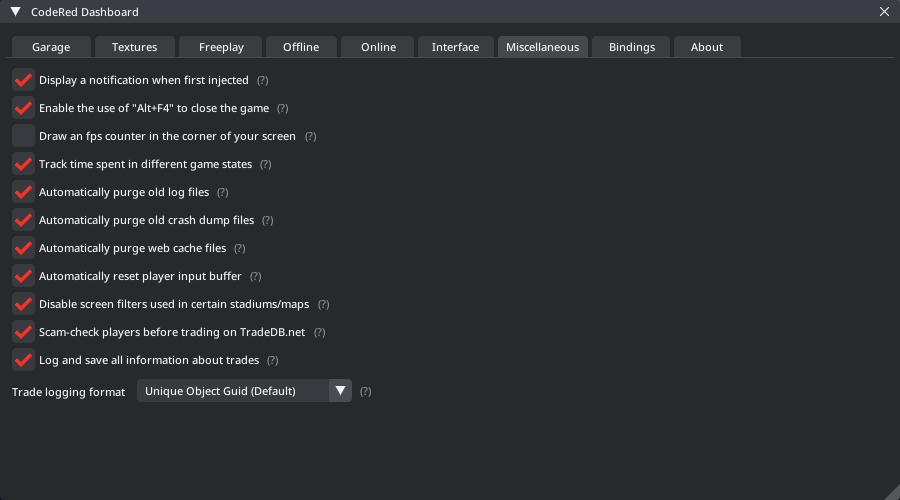
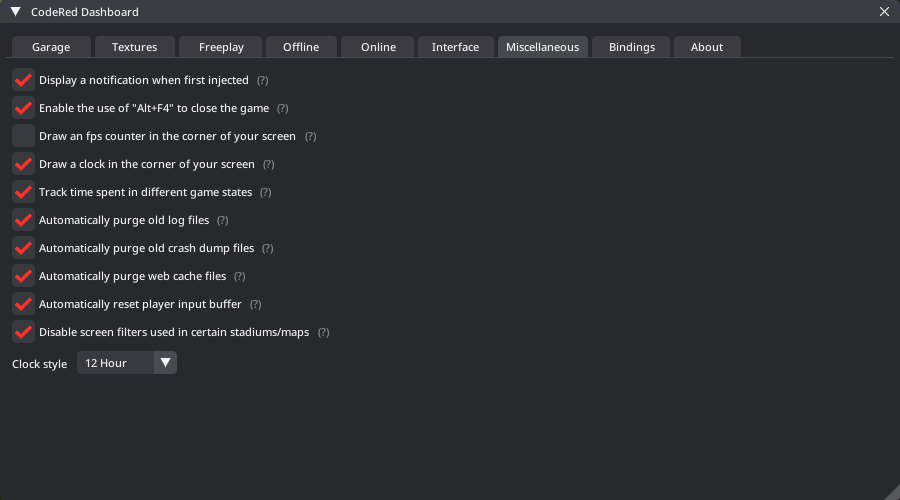
Added the new clock window and more
Added the new clock window, updated the misc image, and updated the changelog to the latest version.

diff --git a/documentation.html b/documentation.html
@@ -87,8 +87,9 @@
                     <li class="nav-item"><a class="nav-link scrollto" href="#item-5-8">Style Editor</a></li>
                     <li class="nav-item"><a class="nav-link scrollto" href="#item-5-9">Terminal</a></li>
                     <li class="nav-item"><a class="nav-link scrollto" href="#item-5-10">Playlist Tracker</a></li>
-                    <li class="nav-item"><a class="nav-link scrollto" href="#item-5-10-5">Texture Browser</a></li>
-                    <li class="nav-item"><a class="nav-link scrollto" href="#item-5-11">Thumbnail Renderer</a></li>
+                    <li class="nav-item"><a class="nav-link scrollto" href="#item-5-11">Texture Browser</a></li>
+                    <li class="nav-item"><a class="nav-link scrollto" href="#item-5-12">Thumbnail Renderer</a></li>
+                    <li class="nav-item"><a class="nav-link scrollto" href="#item-5-13">Clock</a></li>
 				    <li class="nav-item section-title mt-3"><a class="nav-link scrollto" href="#section-6"><span class="theme-icon-holder me-2"><i class="fas fa-lightbulb"></i></span>FAQs</a></li>
 				    <li class="nav-item"><a class="nav-link scrollto" href="#item-6-1">What Is CodeRed</a></li>
 				    <li class="nav-item"><a class="nav-link scrollto" href="#item-6-2">Is It bannable</a></li>
@@ -267,6 +268,14 @@
                         <div class="table-responsive my-4">
                             <table class="table table-bordered">
                                 <tbody>
+                                    <tr>
+                                        <th class="theme-bg-light"><b>imgui_clock_24 &lttrue-false&gt</b></th>
+                                        <td>Use a 24 hour clock for timestamps, instead of a 12 hour AM/PM one.</td>
+                                    </tr>
+                                    <tr>
+                                        <th class="theme-bg-light"><b>imgui_draw_clock &lttrue-false&gt</b></th>
+                                        <td>Automatically open the clock window when first injected.</td>
+                                    </tr>
                                     <tr>
                                         <th class="theme-bg-light"><b>imgui_global_scale &lt0.2-4.0&gt</b></th>
                                         <td>Change the global interface scaling for ImGui.</td>
@@ -1949,6 +1958,7 @@
                         <h2 class="section-heading">GameState Debugger</h2>
                         <h4>Window Name: <code>gamestates</code></h4>
                         <p>The gamestate debugger serves one purpose, debuggin which gamestate you are in. It displays your current playlist, active events, and permissions used by CodeRed.</p>	    
+                        <p>Hold ctrl and double right click the window to change its position.</p>
 
                         <div class="simplelightbox-gallery row mb-3">
                             <div class="col-12 col-md-4 mb-3">
@@ -2019,6 +2029,7 @@
                         <h2 class="section-heading">Playlist Tracker</h2>
                         <h4>Window Name: <code>tracker</code></h4>
                         <p>The tracker window is a little overlay that you can pin to one of the corners of your screen, it displays your current mmr, mmr needed to rank up/down, and win/loss streaks.</p>	    
+                        <p>Hold ctrl and double right click the window to change its position.</p>
 
                         <div class="simplelightbox-gallery row mb-3">
                             <div class="col-12 col-md-4 mb-3">
@@ -2027,7 +2038,7 @@
                         </div>
 					</section>
 
-                    <section class="docs-section" id="item-5-10-5">
+                    <section class="docs-section" id="item-5-11">
                         <h2 class="section-heading">Texture Browser</h2>
                         <h4>Window Name: <code>textures</code></h4>
                         <p>The texture browser lets you preview and export almost any currently loadded texture in the game.</p>	    
@@ -2039,7 +2050,7 @@
                         </div>
 					</section>
 
-                    <section class="docs-section" id="item-5-11">
+                    <section class="docs-section" id="item-5-12">
                         <h2 class="section-heading">Thumbnail Renderer</h2>
                         <h4>Window Name: <code>thumbnails</code></h4>
                         <p>The thumbnail render is an experimental tool used to rendering custom 3D scenes of products, it allows you to customize its paints, camera settings, and even export them to an image file.</p>
@@ -2051,6 +2062,19 @@
                             </div>
                             <div class="col-12 col-md-4 mb-3">
                                 <a href="assets/images/windows/thumbnails-2.png"><img class="figure-img img-fluid shadow rounded" src="assets/images/windows/thumbnails-2.png" alt="" title=""/></a>
+                            </div>
+                        </div>
+					</section>
+
+                    <section class="docs-section" id="item-5-13">
+                        <h2 class="section-heading">Clock</h2>
+                        <h4>Window Name: <code>clock</code></h4>
+                        <p>This window simply draws a clock in the top left corner of your screen. You can change the format from 24 hour to 12 hour with the <code>imgui_clock_24</code> setting.</p>
+                        <p>Hold ctrl and double right click the window to change its position.</p>
+
+                        <div class="simplelightbox-gallery row mb-3">
+                            <div class="col-12 col-md-4 mb-3">
+                                <a href="assets/images/windows/clock-1.png"><img class="figure-img img-fluid shadow rounded" src="assets/images/windows/clock-1.png" alt="" title=""/></a>
                             </div>
                         </div>
 					</section>

diff --git a/changelog.html b/changelog.html
@@ -53,6 +53,7 @@
 		    <nav id="docs-nav" class="docs-nav navbar">
 			    <ul class="section-items list-unstyled nav flex-column pb-3">
                     <li class="nav-item section-title mt-3"><a class="nav-link scrollto" href="#section-2"><span class="theme-icon-holder me-2"><i class="fas fa-book"></i></span>Changelog (Alpha)</a></li>
+                    <li class="nav-item"><a class="nav-link scrollto" href="#item-2-9-9">Version 1.9.9</a></li>
                     <li class="nav-item"><a class="nav-link scrollto" href="#item-2-9-8">Version 1.9.8</a></li>
                     <li class="nav-item"><a class="nav-link scrollto" href="#item-2-9-7">Version 1.9.7</a></li>
                     <li class="nav-item"><a class="nav-link scrollto" href="#item-2-9-6">Version 1.9.6</a></li>
@@ -194,6 +195,17 @@
 		    <div class="container">
 			    <article class="docs-article" id="section-2">
                     <h1 class="docs-heading">Changelog (Alpha)</h1>
+
+                        <section class="docs-section" id="item-2-9-9">
+                            <h2 class="section-heading">Version 1.9.9 (January 8th 2024)</h2>
+                            <h5>- Added a new ImGui window called "clock", which displays the current time in the top left of your screen.</h5>
+                            <h5>- Added a new setting <code>imgui_draw_clock</code>, which automatically opens the new "clock" window on injection.</h5>
+                            <h5>- Added a new setting <code>imgui_clock_24</code>, which is true by default. If set to false, timestamps will use a 12 hour AM/PM clock instead of a 24 hour one.</h5>
+                            <h5>- Possibly fixed a random crash that happened if you changed your nickname in the Steam overlay while in a game.</h5>
+                            <h5>- Fixed the game not closing properly if you had the <code>keys_rage_quits</code> setting enabled and used "Alt+F4" to close the game.</h5>
+                            <h5>- Fixed a crash that happened if you left a game before it finished completely, or forfeited early.</h5>
+                            <h5>- Fixed the refresh button in the texture browser window not applying the text in the filter box.</h5>
+                        </section>
 
                         <section class="docs-section" id="item-2-9-8">
                             <h2 class="section-heading">Version 1.9.8 (January 5th 2024)</h2>
